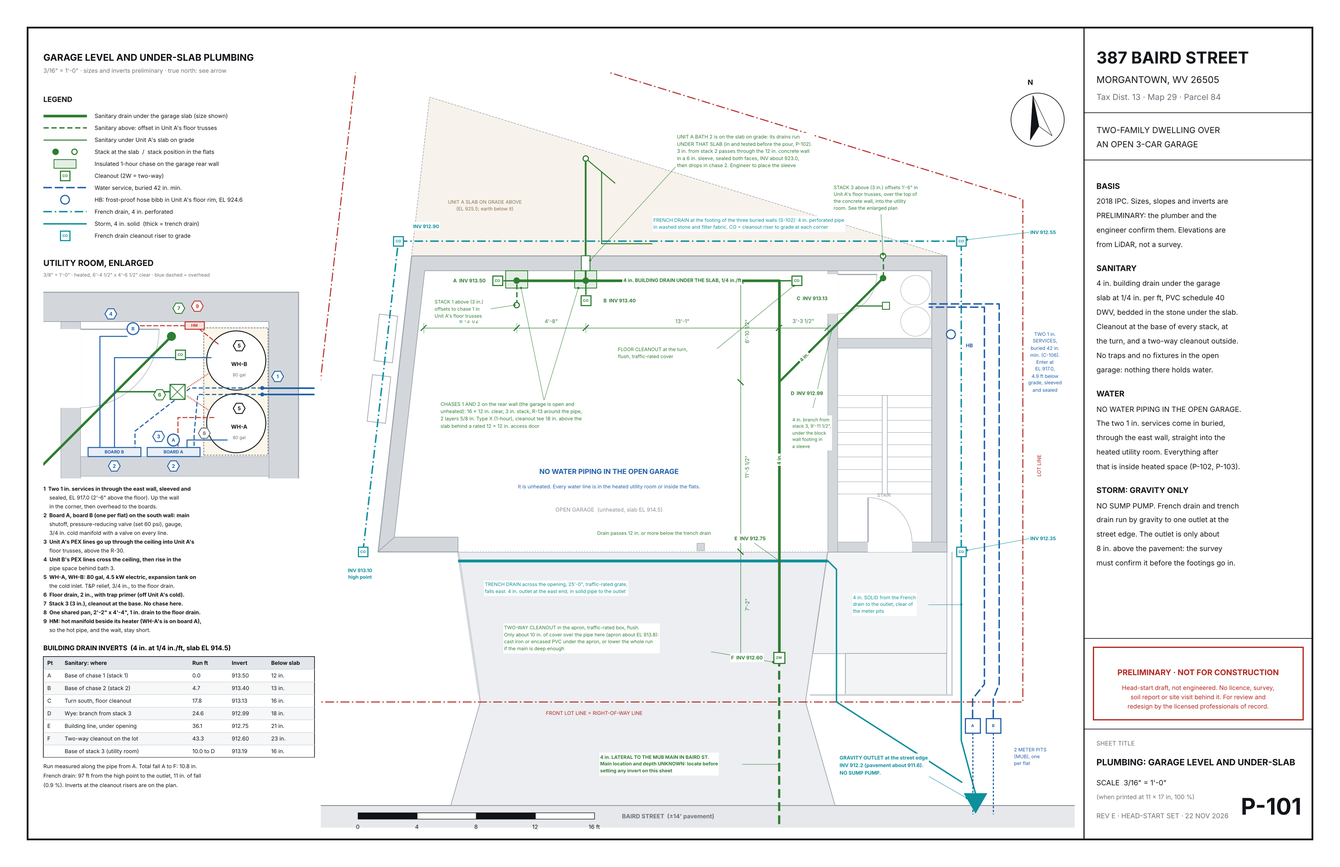
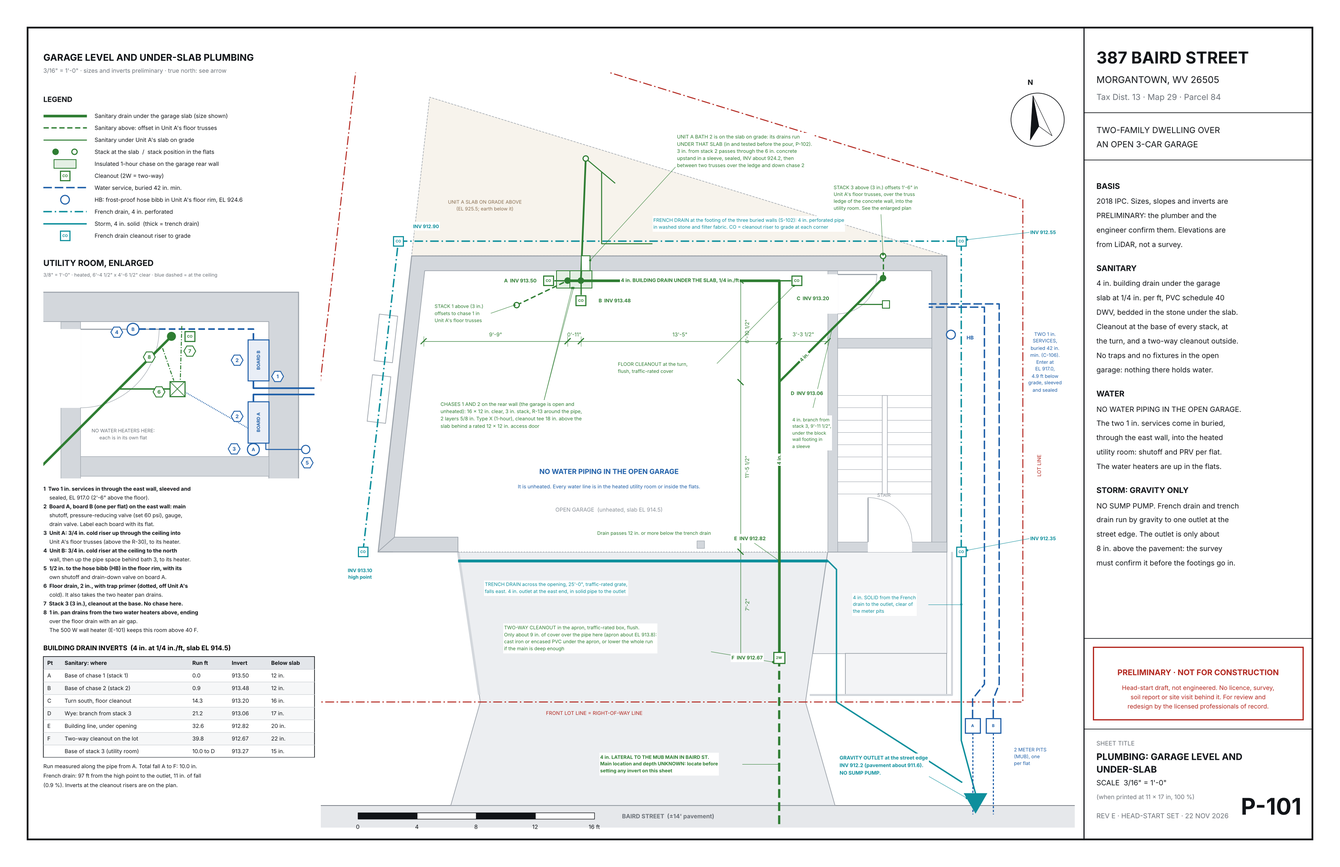
Rev E in progress: review fixes to plans and model
Claude-Session: https://claude.ai/code/session_016eFDD5ddAYxvJDci7BiMtr

diff --git a/src/sheets_p.py b/src/sheets_p.py
@@ -728,3 +728,223 @@ def unit_plumbing(ax, unit):
                 xk=xk, yk=yk, xbc=xbc, yoc=yoc, yoh=yoh, xwc=xwc, yw2=yw2, xv2=xv2, yp=yp, pend=pend)
 
 
+def unit_sheet(pdf, number, unit):
+    A = unit == "A"
+    title = f"Plumbing: Unit {unit}"
+    el = m.EL_A if A else m.EL_B
+    trunk = plen([(26.5, 17.33), (m.STACK_2[0], 17.33), (m.STACK_2[0], A2[1] if A else m.STACK_2[1])])
+    drains = ("Unit " + unit + " drains", [
+        "Bath 1 to stack 1. Bath 2, kitchen and",
+        "washer to stack 2. Bath 3 to stack 3.",
+        "Toilets 3 in., tubs and washer standpipe",
+        "2 in., lavatories 1 1/2 in. All at 1/4 in.",
+        "per ft. PVC schedule 40 DWV.",
+    ])
+    wait = ("Hot water wait", [
+        f"Longest hot run: {HOT_MAX[1]:.0f} ft ({HOT_MAX[0]}).",
+        f"Longest to a faucet: {HOT_FAUCET[1]:.0f} ft of 1/2 in.",
+        f"PEX = {HOT_FAUCET[1] * GAL_HALF:.2f} gal, about {wait_s(HOT_FAUCET[1]):.0f} s at 1.5 gpm.",
+        "No recirculation pump.",
+    ])
+    if A:
+        notes = [drains,
+                 ("Slab on grade (shaded)", [
+                     "North of the garage rear wall the floor",
+                     "is a slab on grade. Bath 2's drains are",
+                     "UNDER that slab: lay, test and inspect",
+                     "them BEFORE the slab is poured. No water",
+                     "line goes under the slab: bath 2 is fed",
+                     "overhead in the 7'-0\" soffit.",
+                 ]),
+                 ("Water", [
+                     "3/4 in. cold riser from Unit A's shutoff",
+                     "and PRV in the utility room, in Unit A's",
+                     "own floor trusses ABOVE the R-30, to the",
+                     "80 gal heater in the mechanical closet.",
+                     "PEX home-runs from the manifolds there:",
+                     "1/2 in. to every fixture, stop at each.",
+                 ]),
+                 wait]
+    else:
+        notes = [drains,
+                 ("Vents through the roof", [
+                     "Each stack continues 3 in. through the",
+                     "roof (VTR), 12 in. above it, flashed.",
+                     "All three come out on the rear slope.",
+                     "Unit A's vents join in above Unit B's",
+                     "fixtures. No water pipe in the attic.",
+                 ]),
+                 ("Water", [
+                     "3/4 in. cold riser from Unit B's shutoff",
+                     "and PRV in the utility room, up the pipe",
+                     "space behind bath 3, then in Unit B's own",
+                     "floor trusses to the 80 gal heater in the",
+                     "mechanical closet. PEX home-runs from",
+                     "the manifolds there, 1/2 in. to fixtures.",
+                 ]),
+                 wait]
+    fig, bg = new_sheet(number, title, "1/4\" = 1'-0\"", notes)
+    L = MARGIN + 0.2
+    heading(bg, L, 10.22, f"Unit {unit} plumbing plan",
+            f"1/4\" = 1'-0\" · floor EL {el:.1f} · pipes are in this flat's floor " + ("trusses (or under its slab)" if A else "trusses") + " unless dotted · preliminary", 8.6)
+    view = ((5.2, 57.6), (4.6, 44.4))
+    ax = frame(fig, view, 0.5, 0.5, fpi=4.0, street=False, lot=False, north=(55.4, 42.4), bar=(6.0, 5.5))
+    unit_plan(ax, "bg", unit, furniture=False)
+    if A:
+        from shapely.geometry import Polygon as SP
+        sog = SP(m.SOG).intersection(SP(m.IN_U))
+        poly(ax, list(sog.exterior.coords), fc="#f1e4cc", ec="none", z=4.1, alpha=0.75)
+        line(ax, [(m.xw_i(m.Y_GR_O), m.Y_GR_O), (m.XEI, m.Y_GR_O)], color=EARTH, lw=0.9, ls=(0, (5, 2)), z=6.6)
+    g = unit_plumbing(ax, unit)
+    s1, s2, s3 = m.STACK_1, m.STACK_2, m.STACK_3
+    vtr = ", VTR" if not A else ""
+    wbox = dict(fc=PAPER, ec="none", pad=0.3)
+
+    # ---------------- labels on the plan ----------------
+    note(ax, 13.3, 29.2, f"STACK 1, 3 in.{vtr}\nin the 2x6 wall", to=(s1[0], s1[1] + 0.15), color=SAN, size=4.6, weight="bold", frm=(15.2, 28.7))
+    note(ax, 12.2, 37.3, f"STACK 2, 3 in.{vtr}\nin the pipe space behind\nthe furred wall", to=(s2[0] - 0.15, s2[1]), color=SAN, size=4.6, weight="bold", frm=(17.3, 37.0))
+    note(ax, 41.6, 32.9, f"STACK 3, 3 in.{vtr}\nin the pipe space behind bath 3", to=(s3[0] + 0.05, s3[1] + 0.15), color=SAN, size=4.6, weight="bold", frm=(42.2, 32.4))
+    note(ax, 29.2, 15.6, "ISLAND SINK + DISHWASHER\n2 in. drain down through the floor.\nAAV (air admittance valve) in the\ncabinet, 4 in. min. above the trap arm.\nDishwasher: high loop to the sink\ntailpiece; hot from the sink supply",
+         to=(g["sd"][0] + 0.25, g["sd"][1] + 0.7), color=SAN, size=4.4, frm=(29.1, 17.0))
+    note(ax, 21.3, 19.6, f"2 in. kitchen + washer drain in the\nfloor trusses to {'chase 2' if A else 'stack 2'}: {trunk:.0f} ft,\nfalls {trunk / 4:.1f} in. at 1/4 in. per ft",
+         to=(s2[0], 19.9), color=SAN, size=4.4, frm=(21.2, 19.9))
+    note(ax, 28.0, 20.3, "WB: recessed washer box, hot + cold\n1/4-turn valves, 2 in. standpipe and\ntrap in the wall, 1 1/2 in. vent",
+         to=(g["wb"][0] + 0.25, g["wb"][1] - 0.2), color=SAN, size=4.4, frm=(27.9, 20.6))
+    note(ax, 12.9, 18.9, "IM: recessed ice-maker box behind\nthe refrigerator, 1/2 in. cold\nwith a stop", to=(g["im"][0] - 0.3, g["im"][1]), color=CW, size=4.4, frm=(18.1, 18.3))
+    note(ax, 28.3, 23.2, "WATER HEATER, 80 gal, 4.5 kW, on a 26 in. pan.\nExpansion tank on the cold inlet. T&P relief to the pan.\nCold + hot PEX MANIFOLDS on the closet wall above\nthe heater, 5'-6\" up, a labelled valve on every line",
+         to=(MAN_X + 0.05, MAN_Y[0] + 0.5), color=CW, size=4.4, frm=(28.2, 23.9))
+    txt(ax, 32.3, YC + 0.3, "3/4\" C  +  1/2\" H  to bath 3", size=4.2, color=CW, weight="bold", z=14, bbox=wbox)
+    txt(ax, 16.4, YC + 0.32, "3/4\" C  +  1/2\" H  to bath 1", size=4.2, color=CW, weight="bold", z=14, bbox=wbox)
+    txt(ax, 32.3, g["yp"] + 0.3, "1 in. PAN DRAIN in the floor trusses to the utility-room floor drain", size=4.0, color=SAN, weight="bold", z=14, bbox=wbox)
+    txt(ax, g["xk"] + 0.78, 21.9, "1/2\" C + H", size=3.8, color=CW, weight="bold", rot=90, z=14, bbox=wbox)
+    txt(ax, g["wb"][0] - 0.5, 23.2, "1/2\" C + H", size=3.8, color=CW, weight="bold", rot=90, z=14, bbox=wbox)
+    txt(ax, g["xwc"] + 0.4, 33.6, "1/2\" C", size=3.8, color=CW, weight="bold", rot=90, z=14, bbox=wbox)
+    txt(ax, g["im"][0], 21.0, "1/2\" C", size=3.8, color=CW, weight="bold", rot=90, z=14, bbox=wbox)
+    lab(ax, g["tx1"], m.Y4 + 0.62, "AP 1", APC, size=4.4)
+    note(ax, 35.4, 31.55, "AP 3", to=(m.X_ST - 0.25, 30.75), color=APC, size=4.4, weight="bold", ha="right", frm=(35.5, 31.5))
+    note(ax, 27.0, 33.1, "BATH 2 WATER: 3/4\" C + 1/2\" H from the manifolds,\nOVERHEAD in the 7'-0\" soffit (dotted), dropping in\nthe walls" + (". NEVER under the slab" if A else ", same as Unit A below"),
+         to=(22.3, g["yoc"]), color=CW, size=4.4, frm=(26.9, 32.6))
+    if A:
+        txt(ax, (RISER_X + RISE_A[0]) / 2, RISE_A[1] - 0.32, "3/4\" COLD RISER in the floor trusses, from Unit A's shutoff + PRV in the utility room below", size=4.0, color=CW,
+            weight="bold", z=14, bbox=wbox)
+        note(ax, 28.3, 38.3, "SLAB ON GRADE (shaded), EL 925.5. Bath 2's toilet, tub and lavatory drains and the\n3 in. from stack 2 are under it: IN, TESTED AND INSPECTED BEFORE THE SLAB IS POURED.",
+             to=(24.6, 34.6), color=EARTH, size=4.6, weight="bold", frm=(28.2, 37.7))
+        txt(ax, 33.4, m.Y_GR_O + 0.3, "EDGE OF THE SLAB ON GRADE  (garage rear wall below)", size=3.9, color=EARTH, z=7)
+        note(ax, 12.6, 31.6, "3 in. from stack 2 under the slab,\nthrough the 6 in. concrete upstand in\na sleeve, between two trusses,\nthen DOWN IN CHASE 2",
+             to=[(s2[0] - 0.32, m.Y_GR_O - 0.5), (A2[0] - 0.3, A2[1])], color=SAN, size=4.4, frm=(18.9, 31.0))
+        note(ax, 46.2, 22.3, f"HB: frost-proof hose bibb, 12 in.\nstem, vacuum breaker, in the floor\nrim at EL {EL_HB:.1f}. 1/2 in. cold from\nboard A in the utility room",
+             to=(HB[0] + 0.6, HB[1] - 0.25), color=CW, size=4.4, frm=(46.3, 23.3))
+        note(ax, 46.2, 26.6, "COLD RISER UP from the\nutility room below",
+             to=(RISE_A[0] + 0.2, RISE_A[1] + 0.1), color=CW, size=4.4, frm=(46.1, 26.4))
+        note(ax, 46.2, 28.4, "Pan drain DOWN to the\nfloor drain (air gap)", to=(g["pend"][0] + 0.25, g["pend"][1] + 0.1), color=SAN, size=4.4, frm=(46.1, 28.3))
+    else:
+        txt(ax, 32.3, RISE_B[1] + 0.32, "3/4\" COLD RISER in the floor trusses to the heater", size=4.0, color=CW, weight="bold", z=14, bbox=wbox)
+        note(ax, 45.6, 33.6, "COLD RISER UP this pipe space from\nUnit B's shutoff + PRV in the utility\nroom, on the room side of the wall\ninsulation. Pan drain goes DOWN it\nto the utility-room floor drain",
+             to=(RISE_B[0] + 0.2, RISE_B[1] + 0.1), color=CW, size=4.4, frm=(45.5, 33.0))
+        note(ax, 27.0, 39.0, "VTR: each stack continues 3 in. through the roof, 12 in. above it, on the rear slope.\nUnit A's 2 in. vent risers come up beside each stack and join it 42 in. above this floor.",
+             color=SAN, size=4.6, weight="bold")
+
+    # ---------------- stack table, legend and keyed notes ----------------
+    per = [("Stack 1", "Bath 1: toilet, tub, lavatory", DFU["bath"]),
+           ("Stack 2", "Bath 2 + island sink + dishwasher + washer", DFU["bath"] + DFU["sink"] + DFU["dw"] + DFU["cw"]),
+           ("Stack 3", "Bath 3: toilet, tub, lavatory", DFU["bath"])]
+    rows = [["Stack", f"Unit {unit} fixtures on it", "DFU"]] + [[a_, b_, str(c_)] for a_, b_, c_ in per] + [["", "This flat, total", str(DFU_FLAT)]]
+    table(bg, 6.75, 10.47, [0.55, 2.6, 0.4], rows, fs=5.2, rh=0.165)
+
+    def s_v(b, x, y):
+        b.add_patch(Circle((x, y), 0.028, fc=PAPER, ec=VENT, lw=0.8))
+
+    def s_st(b, x, y):
+        stack_dot(b, (x, y), SAN, r=0.04)
+
+    def s_ap(b, x, y):
+        b.add_patch(Rectangle((x - 0.15, y - 0.035), 0.3, 0.07, fc=APC, ec=APC))
+
+    def s_r(b, x, y):
+        riser(b, (x - 0.1, y), CW)
+        riser(b, (x + 0.1, y), HW)
+
+    def s_aav(b, x, y):
+        b.add_patch(MPoly([(x - 0.07, y - 0.05), (x + 0.07, y - 0.05), (x, y + 0.07)], closed=True, fc=PAPER, ec=VENT, lw=0.9))
+
+    def s_sog(b, x, y):
+        b.add_patch(Rectangle((x - 0.2, y - 0.055), 0.4, 0.11, fc="#f1e4cc", ec=EARTH, lw=0.5))
+
+    LX = 10.92
+    rows_l = [
+        ("line", SAN, 2.2, "-", "Drain: 3\" thick, 2\" medium, 1-1/2\" thin"),
+        ("sym", s_st, "Stack, 3 in."),
+        ("line", VENT, 0.8, DASH_V, "Vent, 1-1/2 in., in the wall or ceiling"),
+        ("sym", s_v, "Vent riser in the wall"),
+        ("sym", s_aav, "Air admittance valve (island)"),
+        ("line", SAN, 0.9, (0, (4, 1.5, 1, 1.5)), "Water heater pan drain, 1 in."),
+        ("line", CW, 2.2, "-", "Cold riser 3/4\" (thickest); cold PEX 3/4\", 1/2\""),
+        ("line", HW, 0.85, DASH_H, "Hot PEX, 1/2 in."),
+        ("line", CW, 1.35, DASH_OH, "Dotted: OVERHEAD in the soffit"),
+        ("sym", s_r, "Stub up in the wall or cabinet, 1/2 in."),
+        ("sym", s_ap, "Access panel (AP)"),
+    ]
+    if A:
+        rows_l.append(("sym", s_sog, "Slab on grade"))
+    yl = legend(bg, LX, 9.42, rows_l, dy=0.15, fs=5.1)
+    common_k = [
+        "*DRAINS AND VENTS",
+        "Each bath: the lavatory drain joins the toilet branch, so",
+        "the lavatory vent also vents the toilet (wet vent, IPC 912).",
+        "Tub and lavatory each have a 1 1/2 in. vent in the wall.",
+        "Vents shown are one workable scheme: the plumber may",
+        "propose another that the code official accepts.",
+        "Washer vent runs in the ceiling to the bath 2 vent.",
+        "Firestop every pipe through the 1-hour floor and walls.",
+        "",
+        "*WATER",
+        "Every home-run is one unbroken PEX line from its",
+        "manifold valve: no fittings under the floor except the",
+        "ice-maker tee. Stops at every fixture. Flat shutoff: the",
+        "valve on the cold riser at the heater; main shutoff on the",
+        "flat's board in the utility room.",
+        "Heater pan: 1 in. drain by gravity to the utility-room",
+        "floor drain. It cannot reach the washer standpipe: the",
+        "standpipe inlet is 3 ft above the pan.",
+        "",
+        "*ACCESS",
+        "AP 1: 14 x 14 in., bedroom 2 wall, behind the tub 1 valve.",
+        "AP 3: 16 x 24 in. door from bedroom 3 into the pipe space:",
+        "stack 3 cleanout and the " + ("Unit B riser." if A else "cold riser."),
+        "Tub 2's valve wall is behind the water heater and tub 3's",
+        "backs onto a 5 to 10 in. pipe space: no rear panel there.",
+        "All tub valves: pressure-balance with integral stops,",
+        "serviced from the tub side; glued (not slip-joint) waste",
+        "and overflow. Limit 120 deg F.",
+        "",
+    ]
+    if A:
+        unit_k = [
+            "*UNIT A ONLY",
+            "Stack 1 offsets 1'-8\" in the floor trusses to chase 1.",
+            "Stack 3 and Unit B's riser pass between two trusses over",
+            "the wall's truss ledge; their pipe space stands over the",
+            "6 in. upstand: framer and engineer to detail the opening.",
+            "Keep every pipe in the trusses ABOVE the R-30 batts.",
+        ]
+    else:
+        unit_k = [
+            "*UNIT B ONLY",
+            "Pipes cross the trusses through the open webs: keep the",
+            "2 in. drain's fall (" + f"{trunk / 4:.1f}" + " in.) inside the 24 in. depth, clear",
+            "of the duct soffits. Pipe space behind bath 3 is on an",
+            "outside wall: pipes on the room side, R-20 behind them.",
+        ]
+    small_lines(bg, LX, yl - 0.08, common_k + unit_k, fs=4.9, dy=0.118)
+    save(fig, number, pdf)
+
+
+def sheet_p102(pdf):
+    unit_sheet(pdf, "P-102", "A")
+
+
+def sheet_p103(pdf):
+    unit_sheet(pdf, "P-103", "B")
+
+
+SHEETS = [("P-101", sheet_p101), ("P-102", sheet_p102), ("P-103", sheet_p103)]

diff --git a/src/sheets_c.py b/src/sheets_c.py
@@ -848,7 +848,6 @@ def sheet_c103(pdf):
     txt(ax, -3.4, 30, "442 BAIRD ST", size=5.0, color=GREY, weight="bold", rot=83.5)
     txt(ax, 55.4, 22, "441 BAIRD ST", size=5.0, color=GREY, weight="bold", rot=90)
     poly(ax, m.OUT_U, fc="#f4f5f6", ec=GREY, lw=0.6, ls=(0, (4, 2)), z=2.5)
-    txt(ax, 22.5, 36.0, "Unit A floor over: slab on grade, not excavated", size=4.2, color=GREY, rot=m.REAR_ANGLE, z=6)
     site_work(ax)
     lower_plan(ax, "arch", cars=True, labels=False)
     for i, c in enumerate(car_c):
@@ -893,7 +892,7 @@ def sheet_c103(pdf):
     txt(ax, 4.6, -14.3, "one lane · falls 11.4 %\nto the east", size=4.8, color=GREY, z=6, va="top")
     north_arrow(ax, 54.4, 35.4, 2.6, 6.5)
     scale_bar(ax, 37, -25.2, 20, 5, 0.65)
-    title(ax, "Garage level: vehicle access and towing plan", "Amber = truck on the apron (position A) · green = truck in the street (position B)",
+    title(ax, "Garage level: vehicle access and towing plan", "Amber = truck on the apron (position A) · green = truck in the street (position B) · dashed = Unit A walls over",
           dx=0.5, dy=1.4, clear=(42, 4.4))
 
     # ---- right column: apron profiles
@@ -1420,10 +1419,10 @@ def sheet_c105(pdf):
     txt(sx, sv[0] + 0.2, m.EL_A + 0.5, f"UNIT A SLAB EL {m.EL_A:.1f}", size=4.6, weight="bold", ha="left")
     lead(sx, (-m.CMU / 2, fg0 + STEM_UP), (-4.6, fg0 + STEM_UP + 2.4), f"TOP OF CONCRETE EL {fg0 + STEM_UP:.1f}\n8 in. above finish grade", size=4.5, ha="center")
     lead(sx, (SWALE_OFF, inv0), (3.4, inv0 + 3.4), f"SWALE INV EL {inv0:.1f}", size=4.5, color=BLUE, ha="center", weight="bold")
-    lead(sx, (0.8, fg0 - 0.12), (-4.6, fg0 - 1.3), "5 % to the swale", size=4.4, color=BLUE, ha="center")
-    lead(sx, (UD_OFF, fg0 - UD_DEPTH + 0.3), (4.6, fg0 - UD_DEPTH - 0.6), f"UD 4 in. perforated,\nINV EL {fg0 - UD_DEPTH:.1f}", size=4.4, color=STORM, ha="center")
+    lead(sx, (0.9, fg0 - 0.1), (4.1, fg0 - 1.5), "5 % to the swale", size=4.4, color=BLUE, ha="center")
+    lead(sx, (UD_OFF + 0.15, fg0 - UD_DEPTH + 0.2), (3.4, fg0 - UD_DEPTH + 0.4), f"UD 4 in. perforated,\nINV EL {fg0 - UD_DEPTH:.1f}", size=4.4, color=STORM, ha="center")
     lead(sx, (-m.CMU / 2, fb + 1.6), (-5.0, fb + 0.2), "8 in. stem wall on a\n20 x 10 in. footing (S-101)", size=4.4, ha="center")
-    txt(sx, YARD + 0.25, sv[1] + 1.9, "REAR\nLOT LINE", size=4.3, color=ACCENT, ha="right", weight="bold")
+    txt(sx, YARD + 0.25, sv[1] + 0.9, "REAR\nLOT LINE", size=4.3, color=ACCENT, ha="left", weight="bold")
     txt(sx, sv[2] - 0.2, ge(sv[2] - 0.6) + 0.55, "existing", size=4.2, color=EARTH, ha="right")
     # drain schedule
     y = ytop - 0.32 - hh - 0.16
@@ -1479,7 +1478,7 @@ def sheet_c106(pdf):
     view = (20, -18, 62, 34)
     ax = frame(fig, view, FPI, left=0.6, bottom=0.6)
     site_base(ax, cont="faint", clabels=False, street_label=None)
-    txt(ax, 57.5, 30.4, "441 BAIRD ST", size=5.4, color=GREY, weight="bold")
+    txt(ax, 57.6, 3.0, "441 BAIRD ST", size=5.4, color=GREY, weight="bold")
     poly(ax, m.OUT_U, fc="none", ec=GREY, lw=0.6, ls=(0, (4, 2)), z=5.5)
     site_work(ax, bg=True)
     lower_plan(ax, "bg", cars=False)
@@ -1498,9 +1497,9 @@ def sheet_c106(pdf):
     line(ax, WATER_B[1:], color=WATER, lw=1.3, z=10.5)
     rect(ax, m.XE - 1.0, ye - 0.3, m.XE, ye + 0.97, fc=WATER, ec=WATER, lw=0.3, z=11)
     lead(ax, (48.6, -1.6), (55.5, -3.4), "MUB METER PITS A, B\n(utility-owned, in the R.O.W.)", size=4.8, color=WATER, ha="center", weight="bold")
-    lead(ax, (X_WB, 21.0), (55.5, 23.4), f"W-A, W-B: two 1 in. water\nservices, {m.WATER_DEPTH * 12:.0f} in. cover,\n7 in. apart in one trench", size=4.8, color=WATER, ha="center")
-    lead(ax, (m.XE - 0.5, ye + 0.3), (33.5, 31.6), f"WATER ENTRY, centre line EL {m.EL_WATER_ENTRY:.1f}: two sleeved cores through the\n"
-         f"12 in. wall, sealed both faces, {ftin(m.Y_GR_O - ye)} south of the rear wall face.\nGround cover here {cover_wall:.1f} ft. Main shut-offs and pressure-reducing valves inside (P-101).",
+    lead(ax, (X_WB, 20.0), (55.5, 21.6), f"W-A, W-B: two 1 in. water\nservices, {m.WATER_DEPTH * 12:.0f} in. cover,\n7 in. apart in one trench", size=4.8, color=WATER, ha="center")
+    lead(ax, (m.XE - 0.5, ye + 0.6), (56.2, 28.6), f"WATER ENTRY, EL {m.EL_WATER_ENTRY:.1f}:\ntwo sleeved cores through the\n12 in. wall, sealed both faces,\n"
+         f"{ftin(m.Y_GR_O - ye)} south of the rear wall face.\nGround cover here {cover_wall:.1f} ft. Main\nshut-offs and pressure-reducing\nvalves inside (P-101).",
          size=4.6, color=WATER, ha="center")
     dimb(ax, (m.XE, 24.0), (X_WA, 24.0), 0, ftin(X_WA - m.XE), ext=False, size=4.4, color=WATER)
     dimb(ax, (X_WB, 15.0), (50.0, 15.0), 0, ftin(50.0 - X_WB), ext=False, size=4.4, color=WATER)
@@ -1527,7 +1526,7 @@ def sheet_c106(pdf):
     for xx in (X_ET, X_TEL):
         line(ax, [(xx - 0.3, 3.45), (xx + 0.3, 3.75)], color=POWER, lw=0.8, z=10.7)
     lead(ax, (ex + 0.5, ey + 0.5), (55.5, 11.6), "2-POSITION METER STACK\non the east wall (E-101)", size=4.8, color=POWER, ha="center", weight="bold")
-    lead(ax, (X_ET + 0.15, 6.0), (55.5, 5.4), "E: service lateral in conduit\nT: telecom conduit (dashed)\nBoth continue to the utility pole:\nPOLE POSITION NOT KNOWN", size=4.6, color=POWER, ha="center")
+    lead(ax, (X_ET + 0.15, 6.4), (55.5, 6.9), "E: service lateral in conduit\nT: telecom conduit (dashed)\nBoth continue to the utility pole:\nPOLE POSITION NOT KNOWN", size=4.6, color=POWER, ha="center")
     # section and profile marks
     for xx in (43.2, 51.6):
         line(ax, [(xx, 11.5), (xx + (1.2 if xx < 45 else -1.2), 11.5)], lw=1.4, z=12)
@@ -1535,10 +1534,10 @@ def sheet_c106(pdf):
     txt(ax, 26.5, -9.4, "BAIRD STREET", size=7.0, weight="bold", color=GREY, z=6)
     txt(ax, 26.5, -10.9, "one lane · falls 11.4 % east", size=4.8, color=GREY, z=6)
     txt(ax, 28.5, 24.5, "OPEN GARAGE\nno water piping here", size=4.6, color=GREY, z=6)
-    north_arrow(ax, 23.2, 30.0, 1.8, 6.5)
+    north_arrow(ax, 58.6, -14.4, 1.8, 6.5)
     scale_bar(ax, 21.5, -16.6, 12, 4, 0.42, size=5.2)
     title(ax, "Site utilities plan (east half of the lot)", "Blue = water · purple = sewer · orange = electric and telecom · grey-green = storm (C-105)",
-          dx=2.8, dy=0.9, size=8.6)
+          dx=0.6, dy=0.9, size=8.6, clear=(34, 2.5))
     # ---- right column
     xr = 0.6 + (view[2] - view[0]) / FPI + 0.3
     wr = SHEET_W - MARGIN - TB_W - 0.15 - xr
@@ -1583,7 +1582,7 @@ def sheet_c106(pdf):
     txt(px, 14.0, G[min(range(len(S)), key=lambda i: abs(S[i] - 14.0))] + 0.9, "ground", size=4.4, color=EARTH)
     lead(px, (26.5, G[min(range(len(S)), key=lambda i: abs(S[i] - 26.5))] - 3.0), (22.5, 913.0), "frost line, 36 in.", size=4.3, color=GREY, ha="center")
     lead(px, (cum[-1], m.EL_WATER_ENTRY), (cum[-1] - 6.0, 911.4), f"enters at EL {m.EL_WATER_ENTRY:.1f}\n({cover_wall:.1f} ft of cover at the wall)", size=4.5, color=WATER, ha="center")
-    txt(px, pv[2] - 0.1, m.EL_GAR + 0.6, f"utility room\nEL {m.EL_GAR:.1f}", size=4.2, ha="right", va="bottom")
+    txt(px, cum[-1] - 0.4, 924.2, f"utility room wall; slab EL {m.EL_GAR:.1f}", size=4.2, ha="right")
     # section B
     y = ytop - 0.36 - hh - 0.22
     bg.text(xr, y, "SECTION B: EAST SIDE YARD AT Y = 11'-6\", LOOKING NORTH", fontsize=7.0, fontweight="bold", va="top")
@@ -1613,7 +1612,7 @@ def sheet_c106(pdf):
         sx.add_patch(Circle((x_, z_), r_, fc=PAPER if r_ > 0.1 else c_, ec=c_, lw=0.9, zorder=8))
         line(sx, [(x_, z_ + r_), (x_, g(x_))], color=c_, lw=0.3, ls=(0, (2, 2)), z=5)
     ytag = sv[3] - 0.45
-    for (x_, z_, r_, c_, lab), dx in zip(items, (-0.3, -0.1, 0.1, 0.35, 0.0, 0.3)):
+    for (x_, z_, r_, c_, lab), dx in zip(items, (-0.3, -0.25, 0.0, 0.15, 0.35, 0.45)):
         txt(sx, x_ + dx, ytag, lab, size=4.6, color=c_, weight="bold", box=True)
         line(sx, [(x_, g(x_)), (x_ + dx, ytag - 0.25)], color=c_, lw=0.3, z=5)
     yb = sv[1] + 0.45
@@ -1832,7 +1831,7 @@ def sheet_c107(pdf):
         door(dx_, (hxg, BAY[3]), gw, 0 if sgn > 0 else 180, 75 * sgn, color=EARTH)
     if not BAY_OK:
         rect(dx_, m.TRASH[0], m.TRASH[1], m.TRASH[2], m.TRASH[3], fc="none", ec=ACCENT, lw=0.9, ls=(0, (3, 2)), z=7)
-        lead(dx_, (m.TRASH[0], m.TRASH[3] - 0.3), (BAY[0] - 1.0, BAY[3] + 4.4),
+        lead(dx_, (m.TRASH[0], m.TRASH[3] - 0.3), (BAY[0] + 1.6, BAY[3] + 4.7),
              f"red dashed = bay in the model,\n{ftin(m.TRASH[2] - m.TRASH[0])} x {ftin(m.TRASH[3] - m.TRASH[1])}: too small", size=4.4, color=ACCENT, ha="center")
     dimb(dx_, (BAY[0], BAY[1]), (BAY[2], BAY[1]), -1.25, f"{ftin(bw)} INSIDE", size=4.6, side=-1)
     dimb(dx_, (BAY[2], BAY[1]), (BAY[2], BAY[3]), -1.5, ftin(bd), size=4.6, side=-1)

diff --git a/src/sheets_e.py b/src/sheets_e.py
@@ -469,7 +469,7 @@ def sheet_e101(pdf):
     ], "E-101")
     fig, bg = new_sheet("E-101", "Electrical: garage level and service", SCALE, notes)
     view = ((-12.0, 58.0), (-8.5, 41.0))
-    ax = frame(fig, view, "Garage level: power, lighting and service",
+    ax = frame(fig, view, "Garage level power and service plan",
                f"Garage floor EL {m.EL_GAR:.1f} · common loads on Unit A's panel PA (CL)",
                street=True, north=(55.3, 37.6), lot_label=(50.0, 29.3))
     site_work(ax, bg=True)
@@ -545,12 +545,12 @@ def sheet_e101(pdf):
     heater(ax, (SX0 + 0.2, 25.4), "v", 1.1)
     recept(ax, (38.6, m.UTIL[2] + 0.42), "G")
     ux = 38.2
-    txt(ax, ux - 0.5, 34.5, "UTILITY ROOM (heated, locked)", size=5.0, weight="bold", ha="left", color=PWR)
+    txt(ax, ux - 0.5, 34.15, "UTILITY ROOM (heated, locked)", size=5.0, weight="bold", ha="left", color=PWR)
     for j, (n, s) in enumerate([(5, "500 W wall heater, CL-2H: keeps the room above freezing"),
                                 (3, "Automatic light and GFCI receptacle, CL-1")]):
-        keynote(ax, ux, 33.4 - j * 1.12, n, r=0.5)
-        txt(ax, ux + 0.85, 33.4 - j * 1.12, s, size=4.4, ha="left")
-    leader(ax, [(40.6, 31.6), (40.6, 29.9), (39.6, 25.9)], color=PWR)
+        keynote(ax, ux, 33.05 - j * 1.1, n, r=0.5)
+        txt(ax, ux + 0.85, 33.05 - j * 1.1, s, size=4.4, ha="left")
+    leader(ax, [(40.6, 31.3), (40.6, 29.9), (39.6, 25.9)], color=PWR)
 
     # ---- service: meter stack, lateral, grounding, feeders ----
     rect(ax, m.XE, METER[1] - 1.15, m.XE + 0.6, METER[1] + 1.15, fc=PWR, ec=PWR, z=11)
@@ -625,9 +625,9 @@ def sheet_e101(pdf):
         "Confirm with the inspector: GFCI on the outdoor heat-pump circuits (NEC 210.8(F))",
         "and outdoor receptacles for the flats (210.52(E)).",
     ], fs=4.5, lh=0.7)
-    x_in, y_in = inch(ax, 5.6, 37.6)
+    x_in, y_in = inch(ax, 4.9, 37.2)
     bg.text(x_in, y_in + 0.05, "COMMON CIRCUITS, ALL ON UNIT A'S PANEL PA (no house meter)", fontsize=6.2, fontweight="bold", color=INK, va="bottom")
-    table(bg, x_in, y_in, [0.5, 1.2, 3.6, 0.85], [
+    table(bg, x_in, y_in, [0.5, 1.2, 3.4, 0.8], [
         ["Circuit", "Breaker, wire", "Serves", "Load"],
         ["CL-1", "15 A 1-pole, #14 Cu", f"Automatic lights: garage {len(G_STRIPS)}, stair {N_STAIR_AL}, outside {len(EXT_AL)}, utility room 1; utility receptacle",
          f"{CL1_W} W + 180 VA"],

diff --git a/src/sheets_a1.py b/src/sheets_a1.py
@@ -700,7 +700,7 @@ def sheet_a104(pdf):
             txt(ax, cx, cy, f"{FURN_NAME[kind]}\n{s}", size=4.2, rot=ang, z=9.6)
     for room, c in m.CHAIRS.items():
         poly(ax, c, fc="none", ec=GREY, lw=0.4, ls=(0, (2, 2)), z=6.5)
-    txt(ax, m.STOOLS[1][0] + 1.25, m.STOOLS[1][1], "3 STOOLS", size=4.2, rot=90)
+    txt(ax, m.STOOLS[1][0] + 1.25, m.STOOLS[1][1], f"{len(m.STOOLS)} STOOLS", size=4.2, rot=90)
     txt(ax, 34.4, 16.0, "LIVING / KITCHEN", size=5.0, weight="bold")
     txt(ax, 23.7, 11.75, "KITCHEN", size=4.4, weight="bold")
     txt(ax, (m.SHAFT_U[0] + m.SHAFT_U[1]) / 2, 12.2, "COMMON\nSTAIR", size=4.4, color=GREY)
@@ -781,7 +781,7 @@ def sheet_a104(pdf):
     for room, c in m.CHAIRS.items():
         a, b = math.dist(c[0], c[1]), math.dist(c[1], c[2])
         flat.append((room.title(), "Desk chair space", f"{round(a * 12)} x {round(b * 12)}"))
-    flat.append(("Living / kitchen", "3 stools at the island", f"{inch(m.STOOLS[1][1] - m.STOOLS[0][1])} centre to centre"))
+    flat.append(("Living / kitchen", f"{len(m.STOOLS)} stools at the island", f"{inch(m.STOOLS[1][1] - m.STOOLS[0][1])} centre to centre"))
     half = (len(flat) + 1) // 2
     for i in range(half):
         r2 = flat[i + half] if i + half < len(flat) else ("", "", "")
@@ -1216,7 +1216,7 @@ def sheet_a401(pdf):
         f"  {inch(m.ISL_DW[1] - m.ISLAND[1])} filler, 24 in. dishwasher, 33 in. sink base.",
         f"  Top {fi(m.ISLAND_TOP[3] - m.ISLAND_TOP[1])} x {fi(m.ISLAND_TOP[2] - m.ISLAND_TOP[0])}: 12 in. seating overhang on the",
         "  living-room side, on brackets by the supplier.",
-        f"  3 stools at {inch(m.STOOLS[1][1] - m.STOOLS[0][1])} centres (by tenant).",
+        f"  {len(m.STOOLS)} stools at {inch(m.STOOLS[1][1] - m.STOOLS[0][1])} centres (by tenant).",
         "  Sink drain, water and the island receptacle come",
         "  up through the floor inside the sink base: cut",
         "  the cabinet floor after the plumber marks it.",

diff --git a/src/model.py b/src/model.py
@@ -154,7 +154,7 @@ WALK = [(apron_x(LAND_Y0, 1), LAND_Y0), (XE, LAND_Y0), (XE, YF), (OPEN[1], YF)]
 TRASH = (38.0, 0.5, XE, LAND_Y0)                                    # screened bay for 4 carts, opens onto the landing
 WING_W = [(OPEN[0], YF), (apron_x(0.5, 0), 0.5)]                    # west wing wall beside the apron (retains the front yard)
 WING_E = [(apron_x(0.5, 1) + 0.2, 0.5), (XE + 0.35, 0.5), (XE + 0.35, YF)]   # low wall around the trash bay and landing
-HP = [(xw_o(20.5) - 1.1, 20.5), (xw_o(25.8) - 1.1, 25.8)]           # heat-pump pads A, B: side-discharge units 38 x 15 in.
+HP = [(xw_o(20.5) - 1.1, 20.5), (xw_o(24.6) - 1.1, 24.6)]           # heat-pump pads A, B: side-discharge units 38 x 15 in.
 HP_SIZE = (38 * IN, 15 * IN)
 
 # ---- coordination points shared by every trade ----
